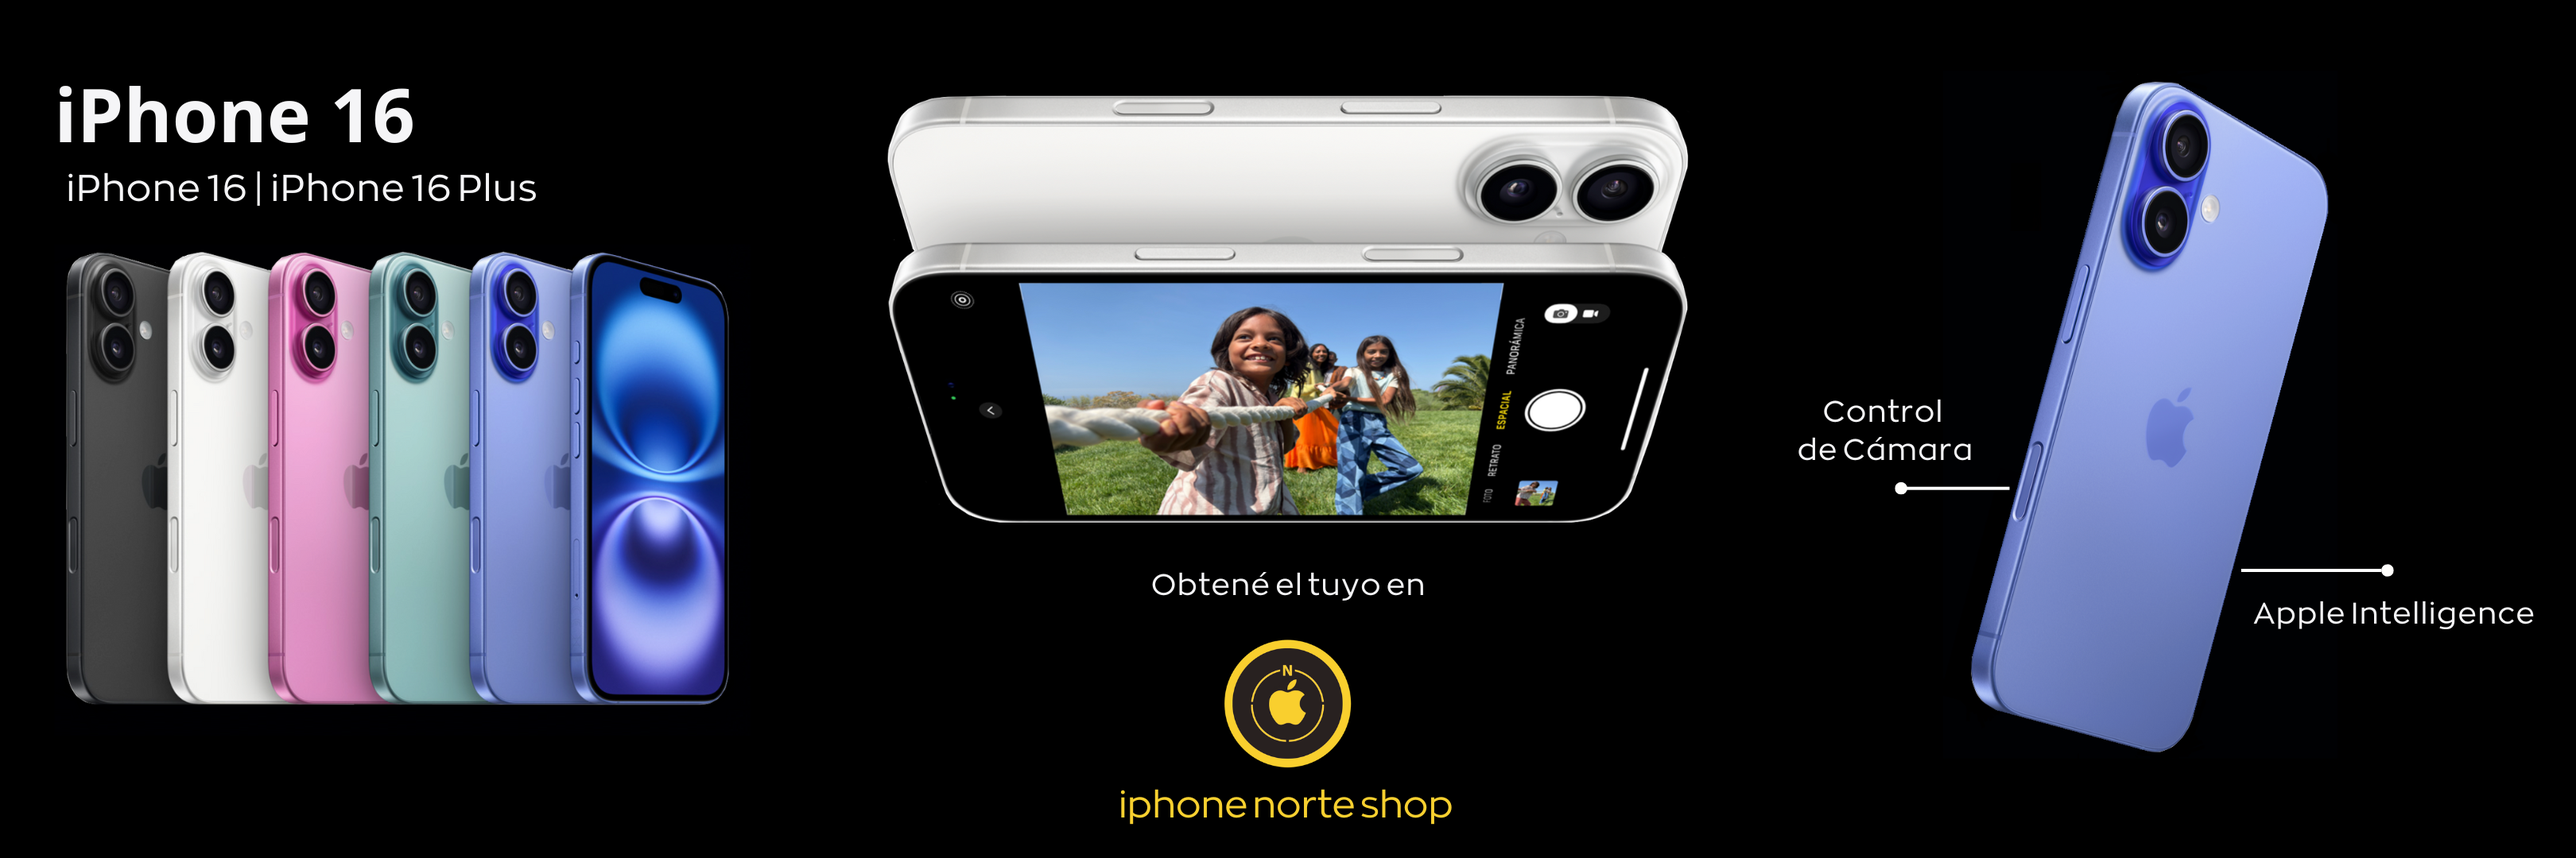
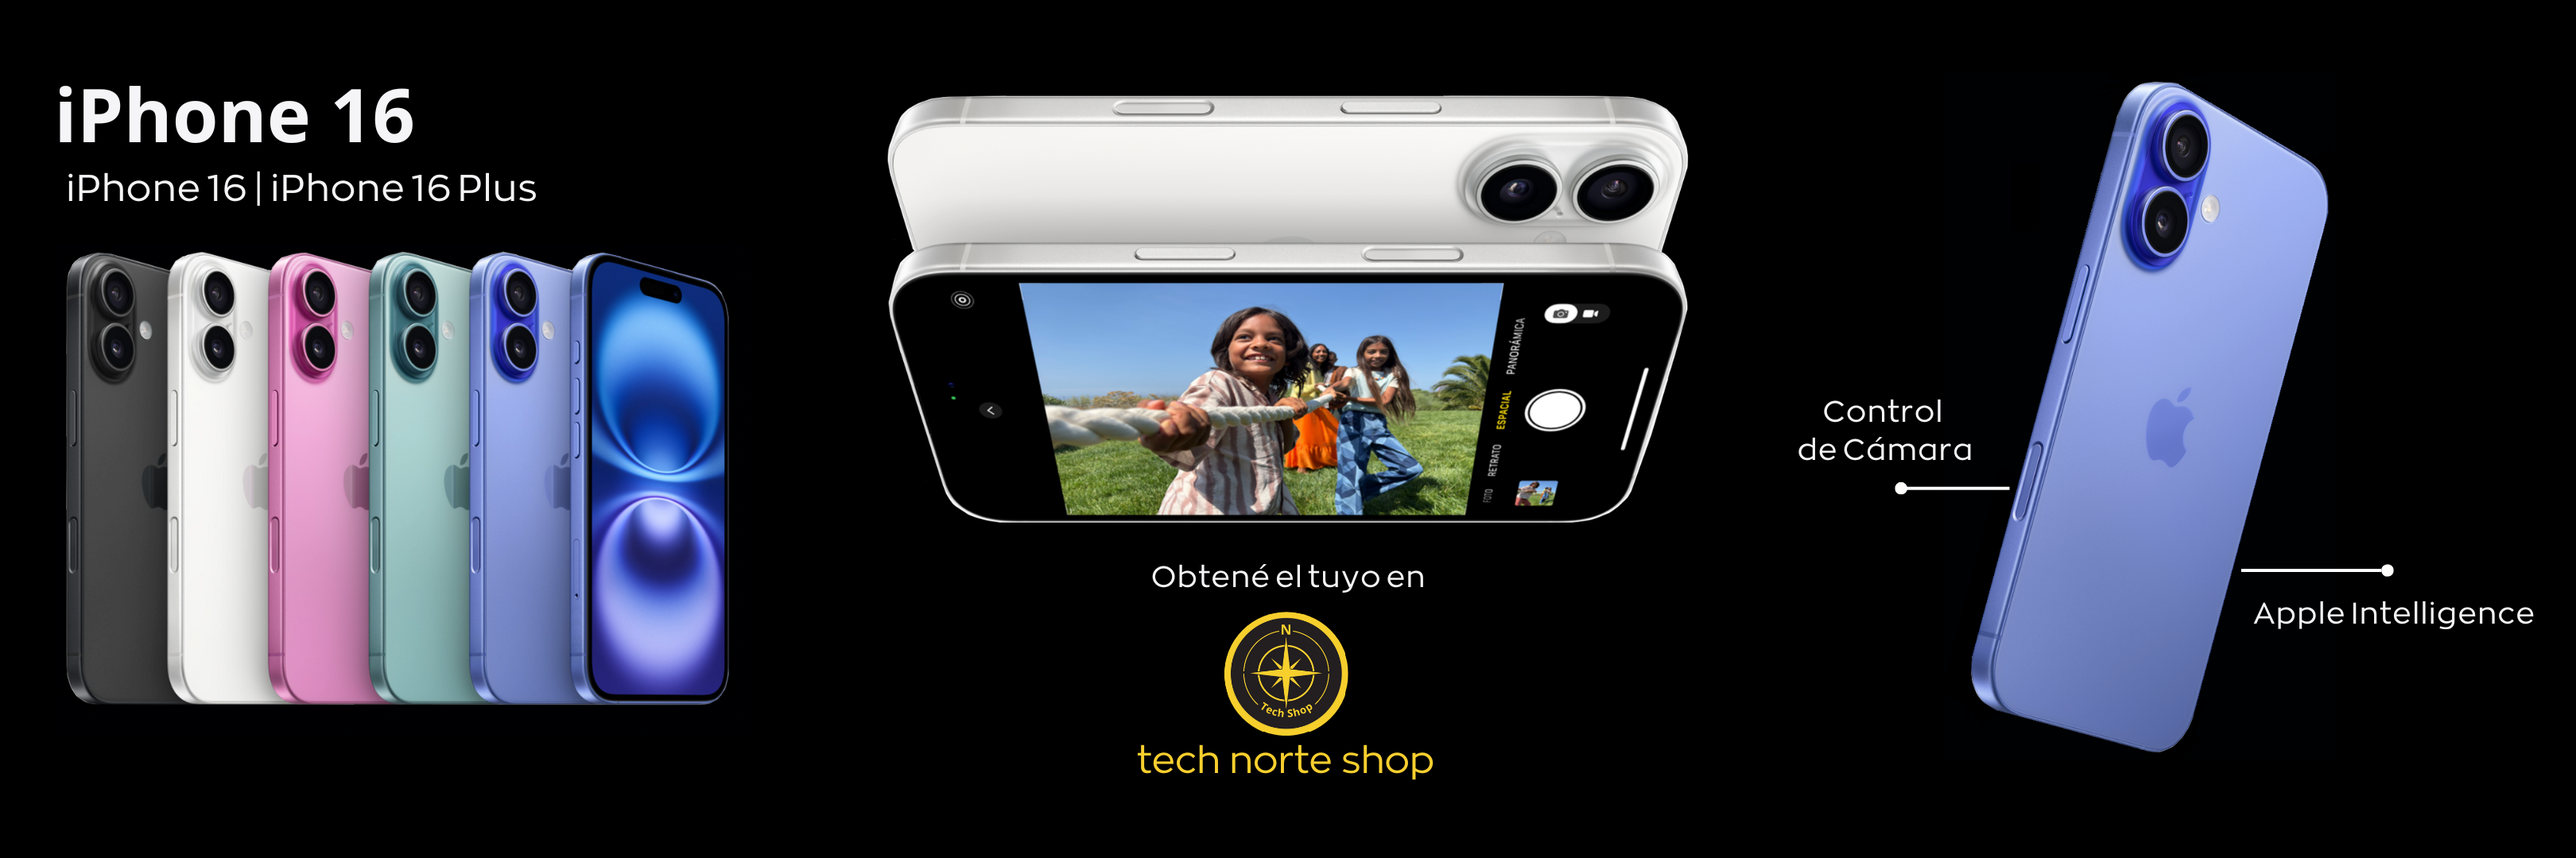
cambios tech

Changed region(s): [[0.4364, 0.6417, 0.5611, 0.9778]]

diff --git a/pages/Productos.html b/pages/Productos.html
@@ -17,8 +17,8 @@
             <p id="arriba"></p>
                 <nav class="navbar navbar-expand-lg fixed-top miNav"> <!-- Barra de Navegación -->
                     <div class="container-fluid">
-                        <a class="navbar-brand link-propio" href="../index.html">iPhone Norte Shop
-                            <img src="../imagenes/ins_logo.png"  width="25" height="27"></a>
+                        <a class="navbar-brand link-propio" href="../index.html">Tech Norte Shop
+                            <img src="../imagenes/logotech.png"  width="25" height="27"></a>
                         </a>
                         <button class="navbar-toggler  mi-busqueda" type="button" data-bs-toggle="collapse" data-bs-target="#navbarSupportedContent" aria-controls="navbarSupportedContent" aria-expanded="false" aria-label="Toggle navigation">
                             <span class="navbar-dark navbar-toggler-icon"></span>
@@ -61,12 +61,12 @@
                                     <p class="card-text Descripcion ">De Titanio y con Cámaras Pro.</p>
                                     
                                     <div class="btn-group" role="group">
-                                        <input class="btn-check" type="radio" name="memoria5" id="memoria1_5" value="1290" autocomplete="off" onchange="actualizarPrecio('precio_5')" checked>
+                                        <input class="btn-check" type="radio" name="memoria5" id="memoria1_5" value="1230" autocomplete="off" onchange="actualizarPrecio('precio_5')" checked>
                                         <label class="btn btn-outline-dark" for="memoria1_5">
                                             128  GB
                                         </label>
                 
-                                        <input class="btn-check" type="radio" name="memoria5" id="memoria2_5" value="1400" autocomplete="off" onchange="actualizarPrecio('precio_5')">
+                                        <input class="btn-check" type="radio" name="memoria5" id="memoria2_5" value="1350" autocomplete="off" onchange="actualizarPrecio('precio_5')">
                                         <label class="btn btn-outline-dark" for="memoria2_5">
                                             256 GB
                                         </label>
@@ -86,12 +86,12 @@
                                         <p class="card-text Descripcion ">De Titanio y Cámaras Pro.</p>
                                         
                                         <div class="btn-group" role="group">
-                                            <input class="btn-check" type="radio" name="memoria3" id="memoria1_3" value="1530" autocomplete="off" onchange="actualizarPrecio('precio_3')" checked>
+                                            <input class="btn-check" type="radio" name="memoria3" id="memoria1_3" value="1450" autocomplete="off" onchange="actualizarPrecio('precio_3')" checked>
                                             <label class="btn btn-outline-dark" for="memoria1_3">
                                                 256  GB
                                             </label>
                     
-                                            <input class="btn-check" type="radio" name="memoria3" id="memoria2_3" value="1790" autocomplete="off" onchange="actualizarPrecio('precio_3')">
+                                            <input class="btn-check" type="radio" name="memoria3" id="memoria2_3" value="1750" autocomplete="off" onchange="actualizarPrecio('precio_3')">
                                             <label class="btn btn-outline-dark" for="memoria2_3">
                                                 512 GB
                                             </label>
@@ -109,12 +109,12 @@
                                             <h5 class="card-title">iPhone 16</h5>
                                             <p class="card-text Descripcion"> Con Apple Intelligence.</p>
                                             <div class="btn-group" role="group">
-                                                <input class="btn-check" type="radio" name="memoria1" id="memoria1_1" value="990" autocomplete="off" onchange="actualizarPrecio('precio_1')" checked>
+                                                <input class="btn-check" type="radio" name="memoria1" id="memoria1_1" value="950" autocomplete="off" onchange="actualizarPrecio('precio_1')" checked>
                                                 <label class="btn btn-outline-dark" for="memoria1_1">
                                                     128  GB
                                                 </label>
                         
-                                                <input class="btn-check" type="radio" name="memoria1" id="memoria2_1" value="1130" autocomplete="off" onchange="actualizarPrecio('precio_1')">
+                                                <input class="btn-check" type="radio" name="memoria1" id="memoria2_1" value="1100" autocomplete="off" onchange="actualizarPrecio('precio_1')">
                                                 <label class="btn btn-outline-dark" for="memoria2_1">
                                                     256 GB
                                                 </label>
@@ -133,7 +133,7 @@
                                             <h5 class="card-title">iPhone 15</h5>
                                             <p class="card-text Descripcion"> Con Dinamic Island.</p>
                                             <div class="btn-group" role="group">
-                                                <input class="btn-check" type="radio" name="memoria4" id="memoria1_4" value="840" autocomplete="off" onchange="actualizarPrecio('precio_4')" checked>
+                                                <input class="btn-check" type="radio" name="memoria4" id="memoria1_4" value="830" autocomplete="off" onchange="actualizarPrecio('precio_4')" checked>
                                                 <label class="btn btn-outline-dark" for="memoria1_4">
                                                     128  GB
                                                 </label>
@@ -166,7 +166,7 @@
                                     <h5 class="card-title ">iPhone 13</h5>
                                     <p class="card-text Descripcion">Con Cámaras Dual.</p>
                                     <div class="btn-group" role="group">
-                                        <input class="btn-check" type="radio" name="memoria2" id="memoria1_2" value="670" autocomplete="off" onchange="actualizarPrecio('precio_2')" checked>
+                                        <input class="btn-check" type="radio" name="memoria2" id="memoria1_2" value="660" autocomplete="off" onchange="actualizarPrecio('precio_2')" checked>
                                         <label class="btn btn-outline-dark" for="memoria1_2">
                                             128  GB
                                         </label>
@@ -226,22 +226,22 @@
                     Para más información puede enviarnos un mensaje a nuestro instagram: </p>    
             </div> 
             <div class="d-flex justify-content-center align-items-center mt-0 p-1">
-                <a href="https://www.instagram.com/iphonenorte.shop/" target="_blank" class="d-inline-flex align-items-center" style="color: white; text-decoration:none; font-size:22px ;">
+                <a href="https://www.instagram.com/technorte.shop/" target="_blank" class="d-inline-flex align-items-center" style="color: white; text-decoration:none; font-size:22px ;">
                     <img src="../imagenes/Logo_Instagram.png" alt="Logo de Instagram" width="40" height="40" style="margin: 0 5px;"> 
-                    <p class="m-0 ">@iphonenorte.shop</p>
+                    <p class="m-0 ">@tech.norteshop</p>
                 </a>
             </div>
 
             <div class="text-center pd-5 mt-1">
                 <a href="#arriba">
-                <img src="../imagenes/logoins.png"  class="rounded img-fluid "  width="230" height="160"></a>
+                <img src="../imagenes/logotech.png"  class="rounded img-fluid "  width="100" height="90"></a>
             </div>
         </main>
 
             <footer class="footer-container">
                 <div class="d-flex justify-content-center align-items-center"></div>
                     <p class="copyright">© Copyright 2024 INS. All Rights Reserved. </p>      
-                    <p class="copyright">   Developed by GS. Powered by INS.</p>
+                    <p class="copyright">   Developed by GS. Powered by TNS.</p>
                 </div>
             </footer>
 

diff --git a/index.html b/index.html
@@ -19,8 +19,8 @@
                 <p id="arriba"></p>
                 <nav class="navbar navbar-expand-lg  fixed-top miNav"> <!-- Barra de Navegación -->
                     <div class="container-fluid">
-                        <a class="navbar-brand link-propio" href="index.html">iPhone Norte Shop
-                            <img src="./imagenes/ins_logo.png"  width="25" height="27"></a>
+                        <a class="navbar-brand link-propio" href="index.html">Tech Norte Shop
+                            <img src="./imagenes/logotech.png"  width="25" height="27"></a>
                         </a>
                             <button class="navbar-toggler mi-busqueda" type="button" data-bs-toggle="collapse" data-bs-target="#navbarSupportedContent" aria-controls="navbarSupportedContent" aria-expanded="false" aria-label="Toggle navigation">
                                 <span class="navbar-dark navbar-toggler-icon "></span> 
@@ -97,7 +97,7 @@
                 <section> <!-- Introducción -->
  
                     <div class="d-flex justify-content-center mt-4 mb-1 ">
-                        <h2> Tenemos el equipo Apple que buscás </h2>
+                        <h2> Tenemos el equipo tech que buscás </h2>
                     </div>                   
                 <!--     <div class="d-flex justify-content-center ">
                         <img class="img-fluid " src="./imagenes/16proFront3.png"  width="400" height="400" alt="foto nuevo iphone 16 pro">
@@ -119,12 +119,12 @@
                                                 <h5 class="card-title">iPhone 16</h5>
                                                 <p class="card-text Descripcion"> Con Apple Intelligence.</p>
                                                 <div class="btn-group" role="group">
-                                                    <input class="btn-check" type="radio" name="memoria1" id="memoria1_1" value="990" autocomplete="off" onchange="actualizarPrecio('precio_1')" checked>
+                                                    <input class="btn-check" type="radio" name="memoria1" id="memoria1_1" value="950" autocomplete="off" onchange="actualizarPrecio('precio_1')" checked>
                                                     <label class="btn btn-outline-dark" for="memoria1_1">
                                                         128  GB
                                                     </label>
                             
-                                                    <input class="btn-check" type="radio" name="memoria1" id="memoria2_1" value="1130" autocomplete="off" onchange="actualizarPrecio('precio_1')">
+                                                    <input class="btn-check" type="radio" name="memoria1" id="memoria2_1" value="1100" autocomplete="off" onchange="actualizarPrecio('precio_1')">
                                                     <label class="btn btn-outline-dark" for="memoria2_1">
                                                         256 GB
                                                     </label>
@@ -142,12 +142,12 @@
                                             <p class="card-text Descripcion ">De Titanio y con Cámaras Pro.</p>
                                             
                                             <div class="btn-group" role="group">
-                                                <input class="btn-check" type="radio" name="memoria3" id="memoria1_3" value="1290" autocomplete="off" onchange="actualizarPrecio('precio_3')" checked>
+                                                <input class="btn-check" type="radio" name="memoria3" id="memoria1_3" value="1230" autocomplete="off" onchange="actualizarPrecio('precio_3')" checked>
                                                 <label class="btn btn-outline-dark" for="memoria1_3">
                                                     128  GB
                                                 </label>
                         
-                                                <input class="btn-check" type="radio" name="memoria3" id="memoria2_3" value="1400" autocomplete="off" onchange="actualizarPrecio('precio_3')">
+                                                <input class="btn-check" type="radio" name="memoria3" id="memoria2_3" value="1350" autocomplete="off" onchange="actualizarPrecio('precio_3')">
                                                 <label class="btn btn-outline-dark" for="memoria2_3">
                                                     256 GB
                                                 </label>
@@ -165,12 +165,12 @@
                                             <p class="card-text Descripcion"> Con Cámaras Dual.</p>
                                             
                                             <div class="btn-group" role="group">
-                                                <input class="btn-check" type="radio" name="memoria2" id="memoria1_2" value="680" autocomplete="off" onchange="actualizarPrecio('precio_2')" checked>
+                                                <input class="btn-check" type="radio" name="memoria2" id="memoria1_2" value="660" autocomplete="off" onchange="actualizarPrecio('precio_2')" checked>
                                                 <label class="btn btn-outline-dark" for="memoria1_2">
                                                     128  GB
                                                 </label>
                         
-                                                <input class="btn-check" type="radio" name="memoria2" id="memoria2_2" value="860" autocomplete="off" onchange="actualizarPrecio('precio_2')">
+                                                <input class="btn-check" type="radio" name="memoria2" id="memoria2_2" value="850" autocomplete="off" onchange="actualizarPrecio('precio_2')">
                                                 <label class="btn btn-outline-dark" for="memoria2_2">
                                                     256 GB
                                                 </label>
@@ -188,14 +188,14 @@
                             Para más información puede enviarnos un mensaje a nuestro instagram: </p>    
                     </div> 
                     <div class="d-flex justify-content-center align-items-center mt-0 p-1">
-                        <a href="https://www.instagram.com/iphonenorte.shop/" target="_blank" class="d-inline-flex align-items-center" style="color: white; text-decoration:none; font-size:22px ;">
+                        <a href="https://www.instagram.com/tech.norteshop/" target="_blank" class="d-inline-flex align-items-center" style="color: white; text-decoration:none; font-size:22px ;">
                             <img src="./imagenes/Logo_Instagram.png" alt="Logo de Instagram" width="40" height="40" style="margin: 0 5px;"> 
-                            <p class="m-0 ">@iphonenorte.shop</p>
+                            <p class="m-0 ">@tech.norteshop</p>
                         </a>
                     </div>
                     <div class="text-center pd-10 mt-4">
                         <a href="#arriba">
-                        <img src="./imagenes/logoins.png"  class="rounded img-fluid "  width="230" height="160"></a>
+                        <img src="./imagenes/logotech.png"  class="rounded img-fluid "  width="100" height="90"></a>
                     </div>
                 </section>
             </main>
@@ -203,7 +203,7 @@
             <footer class="footer-container"> 
                 <div class="d-flex justify-content-center align-items-center"></div>
                     <p class="copyright">© Copyright 2024 INS. All Rights Reserved. </p>      
-                    <p class="copyright">   Developed by GS. Powered by INS.</p>
+                    <p class="copyright">   Developed by GS. Powered by TNS.</p>
                 </div>
             </footer>
 

diff --git a/pages/Nosotros.html b/pages/Nosotros.html
@@ -17,8 +17,8 @@
             <p id="arriba"></p>
             <nav class="navbar navbar-expand-lg fixed-top miNav"> <!-- Barra de Navegación -->
                 <div class="container-fluid">
-                    <a class="navbar-brand link-propio" href="../index.html">iPhone Norte Shop
-                        <img src="../imagenes/ins_logo.png"  width="25" height="27"></a>
+                    <a class="navbar-brand link-propio" href="../index.html">Tech Norte Shop
+                        <img src="../imagenes/logotech.png"  width="25" height="27"></a>
                     </a>
                     <button class="navbar-toggler  mi-busqueda" type="button" data-bs-toggle="collapse" data-bs-target="#navbarSupportedContent" aria-controls="navbarSupportedContent" aria-expanded="false" aria-label="Toggle navigation">
                     <span class="navbar-dark navbar-toggler-icon"></span>
@@ -42,7 +42,7 @@
         <main>
             <section> <!-- Informacion -->
                 <div class="d-flex justify-content-center align-items-center">
-                    <h1> iPhone Norte Shop <img src="../imagenes/ins_logo.png"  width="50" height="54"></a> </h1>
+                    <h1> Tech Norte Shop <img src="../imagenes/logotech.png"  width="90" height="90"></a> </h1>
                    
                 </div>  
                 <div class="d-flex justify-content-center align-items-center">
@@ -76,21 +76,21 @@
                         ¿Tenés alguna consulta? Hablanos a nuestro instagram y nos comunicaremos a la brevedad. </p>    
                 </div> 
                 <div class="d-flex justify-content-center align-items-center mt-0 p-1">
-                    <a href="https://www.instagram.com/iphonenorte.shop/" target="_blank" class="d-inline-flex align-items-center" style="color: white; text-decoration:none; font-size:22px ;">
+                    <a href="https://www.instagram.com/tech.norteshop/" target="_blank" class="d-inline-flex align-items-center" style="color: white; text-decoration:none; font-size:22px ;">
                         <img src="../imagenes/Logo_Instagram.png" alt="Logo de Instagram" width="40" height="40" style="margin: 0 5px;"> 
-                        <p class="m-0 ">@iphonenorte.shop</p>
+                        <p class="m-0 ">@tech.norteshop</p>
                     </a>
                 </div>
                 <div class="text-center pd-10 mt-4">
                     <a href="#arriba">
-                    <img src="../imagenes/logoins.png"  class="rounded img-fluid "  width="230" height="160"></a>
+                    <img src="../imagenes/logotech.png"  class="rounded img-fluid "  width="100" height="90"></a>
                 </div>
             </section>
 
         </main>
         <footer class="footer-container">
                 <div class="d-flex justify-content-center align-items-center"></div>
-                    <p class="copyright">© Copyright 2024 INS. All Rights Reserved. </p>      
+                    <p class="copyright">© Copyright 2024 TNS. All Rights Reserved. </p>      
                     <p class="copyright">   Developed by GS. Powered by INS.</p>
                 </div>
         </footer>
